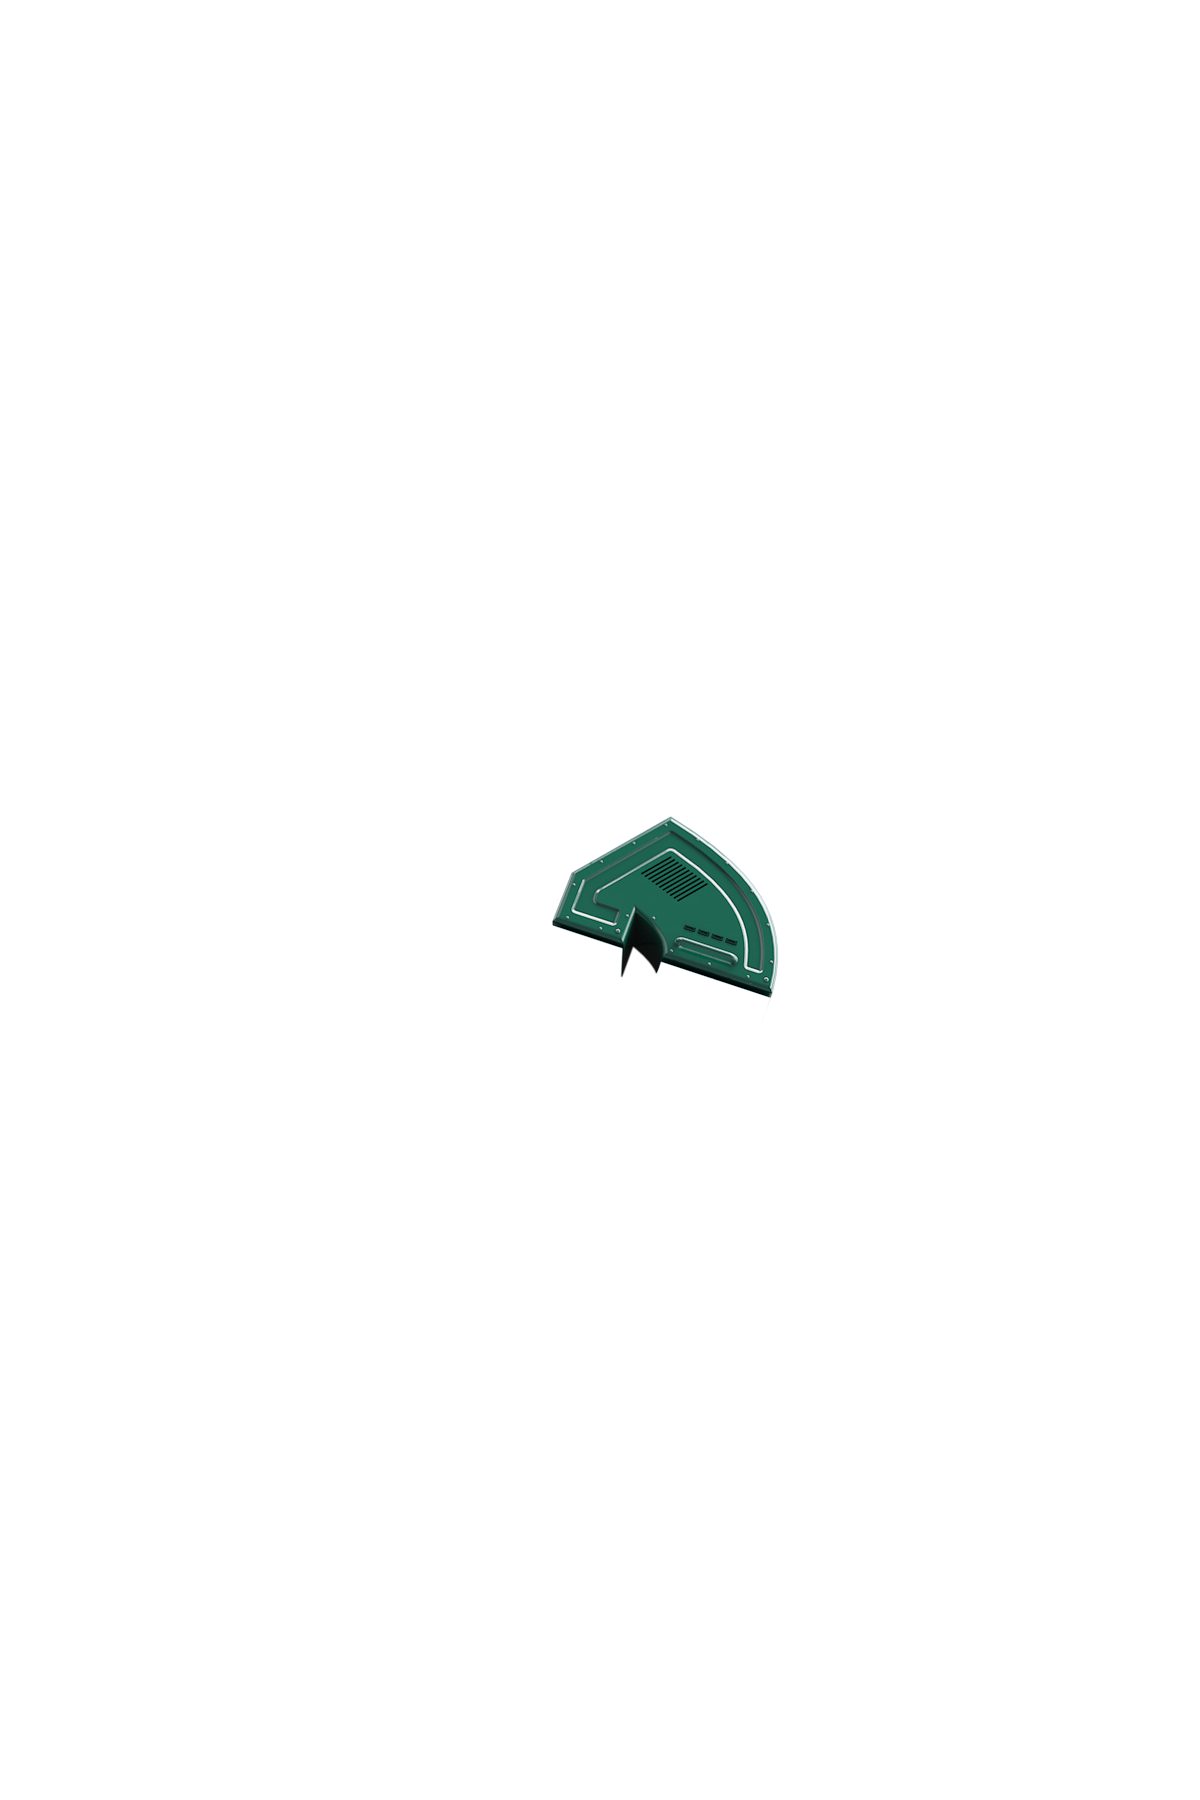
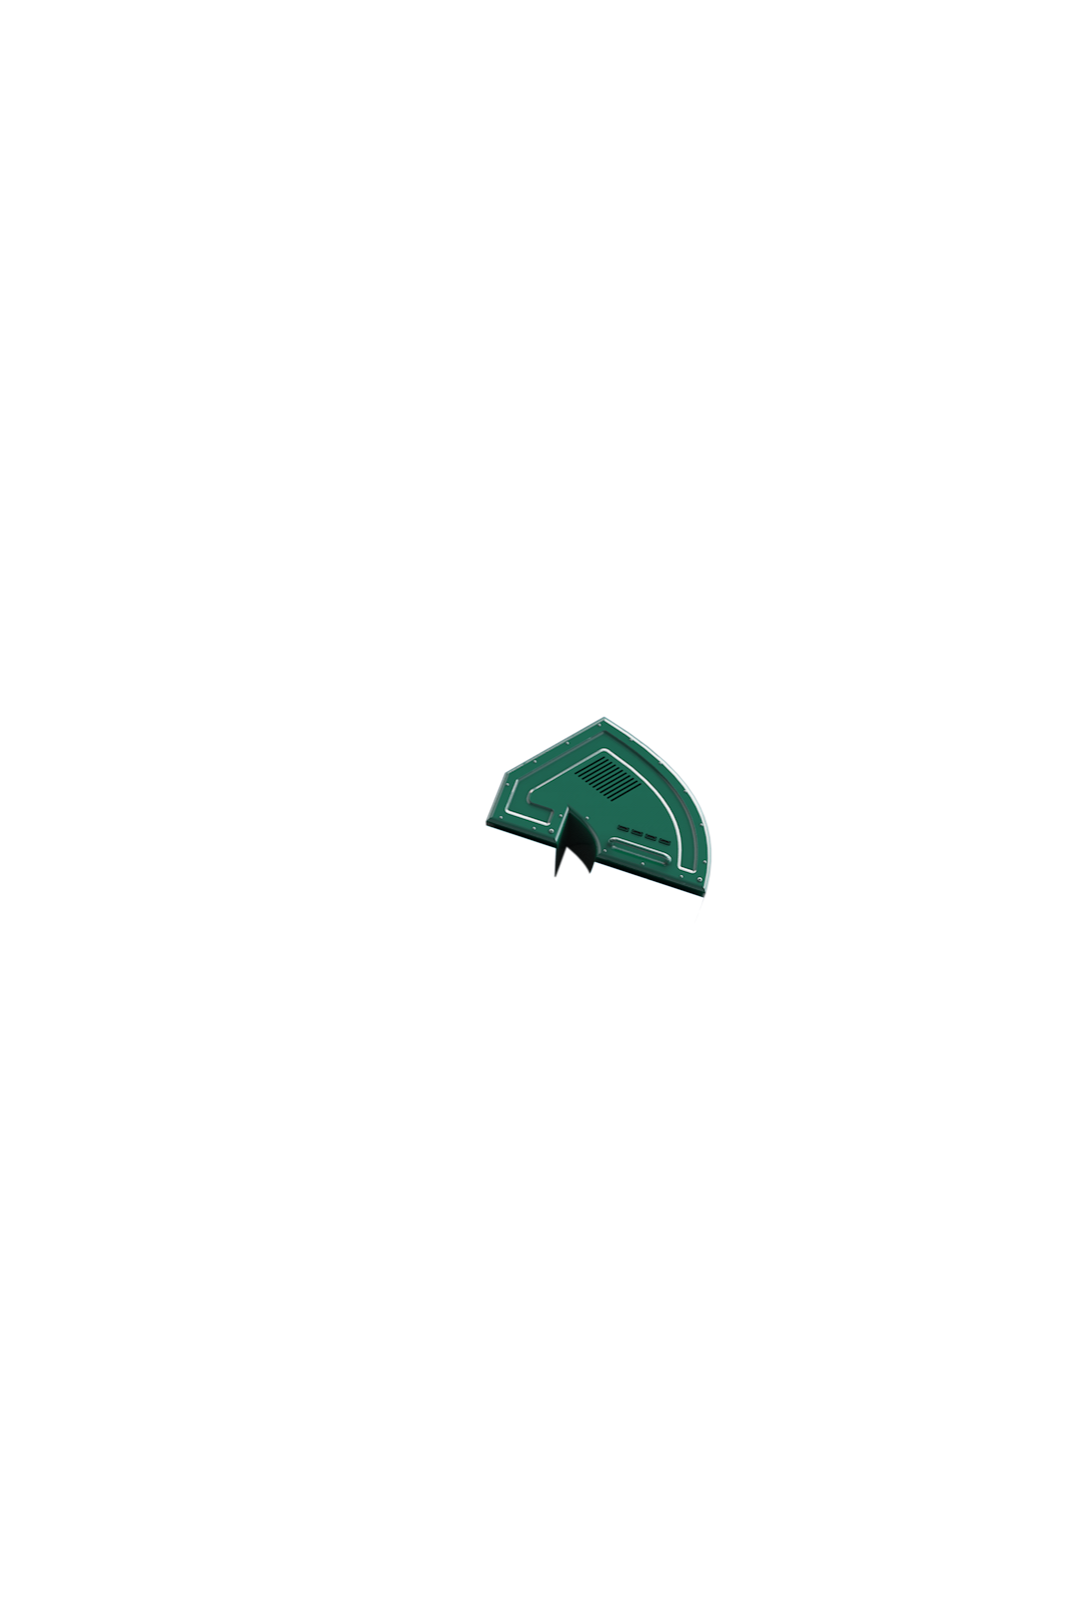
Resize interactive

Changed region(s): [[0.433, 0.4375, 0.6804, 0.5625]]

diff --git a/index.html b/index.html
@@ -23,22 +23,22 @@
             <div class="HYD_6 HYD__section HYD__layer HYD__hidden"></div>
         </div>
         <div class="HYD__map">
-            <img src="assets/images/pixel.gif" width="600" height="900" class="HYD__map-image" usemap="#HYD__map--large" alt="The Future of Finance">
+            <img src="assets/images/pixel.gif" width="534" height="800" class="HYD__map-image" usemap="#HYD__map--large" alt="The Future of Finance">
             <map name="HYD__map--large">
-                <area href="#" data-target="HYD_1" shape="poly" coords="372,164,440,180,535,290,520,335,455,390,390,335,390,315,320,295" alt="New cryptocurrencies">
-                <area href="#" data-target="HYD_2" shape="poly" coords="185,255,205,225,245,195,295,185,360,190,310,315,290,290" alt="Everyone will be an investor">
-                <area href="#" data-target="HYD_3" shape="poly" coords="185,255,290,290,308,325,320,295,390,315,380,370,370,365,270,425,260,450,200,410,170,320" alt="Banks will embrace new technology">
-                <area href="#" data-target="HYD_4" shape="poly" coords="270,425,370,365,455,430,485,500,475,550,360,510,360,525,330,500,250,475" alt="Security innovations">
-                <area href="#" data-target="HYD_5" shape="poly" coords="360,510,475,550,455,600,425,640,365,670,270,665,310,540" alt="Results of new regulations">
-                <area href="#" data-target="HYD_6" shape="poly" coords="250,730,330,505,250,475,150,425,60,485,110,570,190,630,165,680,180,700" alt="Dealing With Cyber Threats">
+                <area href="#" class="HYD__area" data-target="HYD_1" shape="poly" coords="340,120,410,135,505,240,485,290,420,340,360,290,360,270,290,250" alt="New cryptocurrencies">
+                <area href="#" class="HYD__area" data-target="HYD_2" shape="poly" coords="155,210,175,180,215,150,265,140,330,145,280,270,260,240" alt="Everyone will be an investor">
+                <area href="#" class="HYD__area" data-target="HYD_3" shape="poly" coords="155,210,260,240,280,275,290,250,360,270,350,325,335,315,235,375,225,405,170,365,140,275" alt="Banks will embrace new technology">
+                <area href="#" class="HYD__area" data-target="HYD_4" shape="poly" coords="235,375,335,315,420,380,450,460,440,500,325,460,325,475,295,450,215,425" alt="Security innovations">
+                <area href="#" class="HYD__area" data-target="HYD_5" shape="poly" coords="325,460,440,500,420,550,390,590,330,620,235,615,275,490" alt="Results of new regulations">
+                <area href="#" class="HYD__area" data-target="HYD_6" shape="poly" coords="215,680,290,450,215,425,115,375,25,435,75,520,155,580,130,630,145,650" alt="Dealing With Cyber Threats">
             </map>
             <map name="HYD__map--small" class="HYD__hidden">
-                <area href="#" data-target="HYD_1" shape="poly" coords="355,50,405,65,480,145,470,180,415,220,370,180,370,170,315,155" alt="New cryptocurrencies">
-                <area href="#" data-target="HYD_2" shape="poly" coords="345,70,285,70,240,85,215,120,290,140,290,165,315,150" alt="Everyone will be an investor">
-                <area href="#" data-target="HYD_3" shape="poly" coords="215,120,290,140,305,170,315,155,370,170,360,205,275,245,270,265,225,235,205,165" alt="Banks will embrace new technology">
-                <area href="#" data-target="HYD_4" shape="poly" coords="275,245,360,205,410,240,440,290,430,340,345,310,345,320,320,300,260,280" alt="Security innovations">
-                <area href="#" data-target="HYD_5" shape="poly" coords="345,310,430,340,420,385,365,430,280,425,310,330" alt="Results of new regulations">
-                <area href="#" data-target="HYD_6" shape="poly" coords="320,300,285,410,285,425,265,475,205,455,200,435,215,400,160,355,115,290,190,245" alt="Dealing With Cyber Threats">
+                <area href="#" class="HYD__area" data-target="HYD_1" shape="poly" coords="320,0,360,15,440,95,425,130,380,170,335,130,335,115,280,95" alt="New cryptocurrencies">
+                <area href="#" class="HYD__area" data-target="HYD_2" shape="poly" coords="310,20,250,20,205,35,180,70,255,90,265,115,280,100" alt="Everyone will be an investor">
+                <area href="#" class="HYD__area" data-target="HYD_3" shape="poly" coords="180,70,255,90,270,120,280,100,335,115,320,150,245,190,235,215,190,180,170,125" alt="Banks will embrace new technology">
+                <area href="#" class="HYD__area" data-target="HYD_4" shape="poly" coords="245,190,325,150,375,185,405,235,395,285,310,255,310,265,285,245,230,225" alt="Security innovations">
+                <area href="#" class="HYD__area" data-target="HYD_5" shape="poly" coords="310,255,395,285,385,330,330,375,245,370,275,275" alt="Results of new regulations">
+                <area href="#" class="HYD__area" data-target="HYD_6" shape="poly" coords="285,245,250,355,250,370,230,420,170,400,165,380,180,345,125,300,80,235,155,190" alt="Dealing With Cyber Threats">
             </map>
         </div>
         <div class="HYD__text">

diff --git a/assets/css/main.css b/assets/css/main.css
@@ -34,7 +34,7 @@ body:after {
 .HYD__container {
     position: relative;
     width: 600px;
-    height: 900px;
+    height: 800px;
     overflow: hidden;
     font-family: 'Gotham Narrow SSm 3r';
     font-weight: normal;
@@ -44,27 +44,32 @@ body:after {
 }
 
 .HYD__layer {
-    width: 600px;
-    height: 900px;
-    background-size: 1200px;
-    background-position: -300px -450px;
+    width: 534px;
+    height: 800px;
+    margin: 0 auto;
+    background-size: 1067px; /* Double width */
+    background-position: -267px -400px; /* Half of dimensions */
 }
 
 .HYD__section {
     position: absolute;
     top: 0;
-    left: 0;
+    left: 33px; /* Half of 600-534 */
 }
 
 .HYD__map {
     position: absolute;
     top: 0;
-    left: 0;
+    left: 33px; /* Half of 600-534 */
 }
 
 .HYD__map-image {
     border: 0;
     opacity: 0;
+}
+
+.HYD__area {
+    outline: 0;
 }
 
 .HYD__text {

diff --git a/assets/js/main.js b/assets/js/main.js
@@ -39,14 +39,14 @@ var HelloYesDollar = (function ($) {
     transition = {
         init: false,
         large: {
-            size: 1200,
-            x: -300,
-            y: -450
+            size: 1067,
+            x: -267,
+            y: -400
         },
         small: {
-            size: 900,
-            x: -150,
-            y: -410
+            size: 780,
+            x: -123,
+            y: -374
         },
         duration: 1000,
         easing: 'easeInOutQuart',
